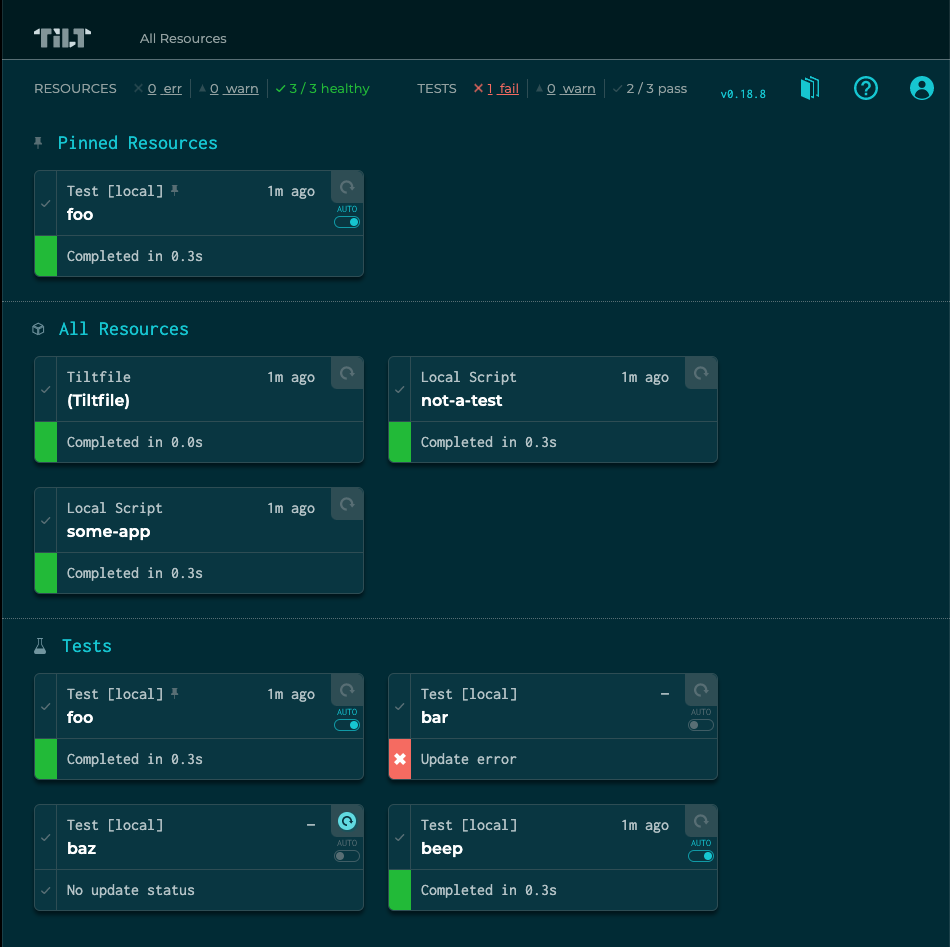
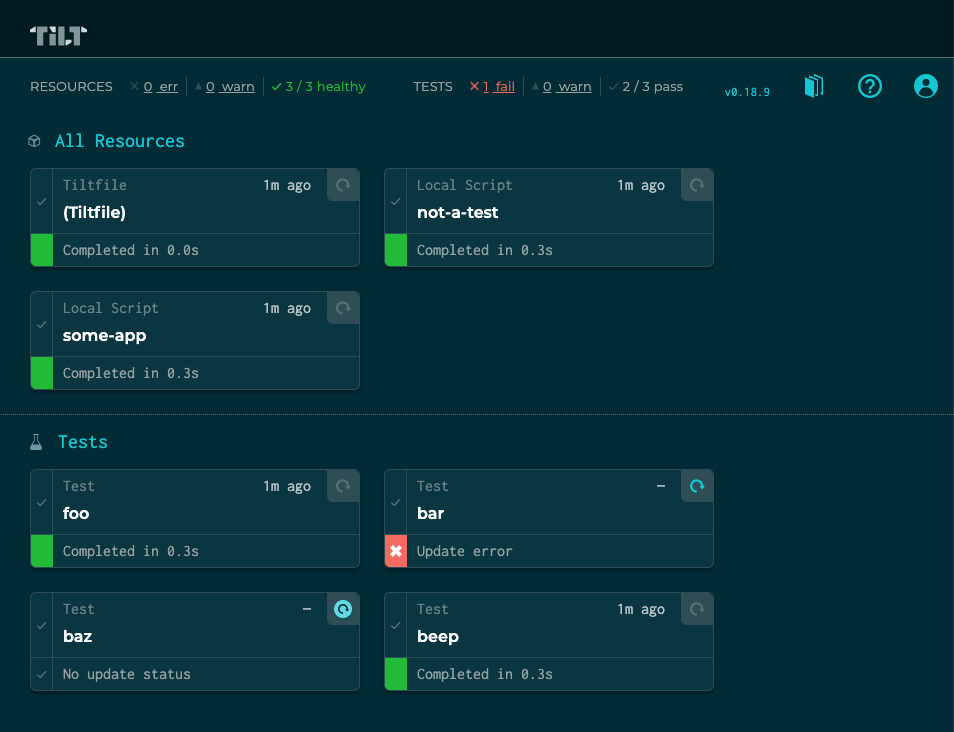
docs: update screenshots for tests in tilt [ch11386]

diff --git a/docs/tests_in_tilt.md b/docs/tests_in_tilt.md
@@ -48,8 +48,8 @@ test('unit-test-remittance', 'pytest remittance_test.py',
 Sometimes, you don't want your test(s) to execute automatically. Maybe you want to iterate on a few tests and disable the rest, or prevent an expensive integration test from running all the time. Use the "auto" slider in the UI to toggle automatic execution on or off for a given test.
 
 <figure>
-    <img src="/assets/img/tests-in-tilt/auto-toggles.png" alt="a close-up of several cards in the sidebar, with 'auto' variously toggled on or off">
-    <figcaption>In this example, tests "foo" and "beep" are in auto mode--they will execute automatically when any of their `deps` are changed.</figcaption>
+    <img src="/assets/img/tests-in-tilt/auto-toggles.png" alt="a close-up of several cards in the sidebar, with 'auto/manual' toggles visible">
+    <figcaption>The 'auto/manual' toggle (visible on hover) allows you to control whether a given test runs automatically when its deps change.</figcaption>
 </figure>
 
 You can also control this behavior via the Tiltfile, using [the `trigger_mode` parameter](https://docs.tilt.dev/manual_update_control.html).
